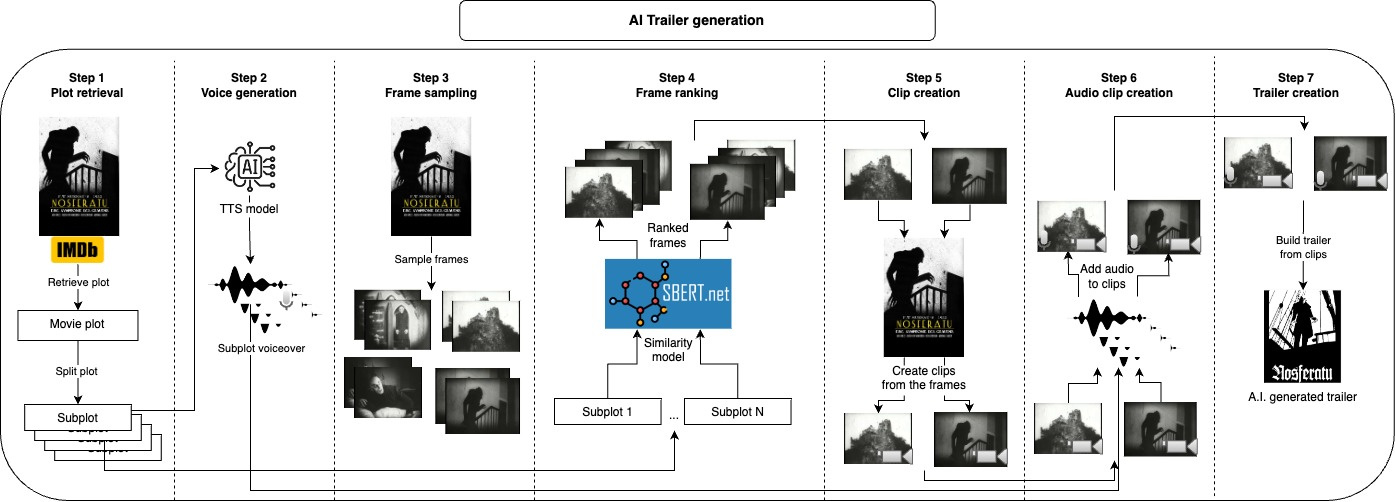
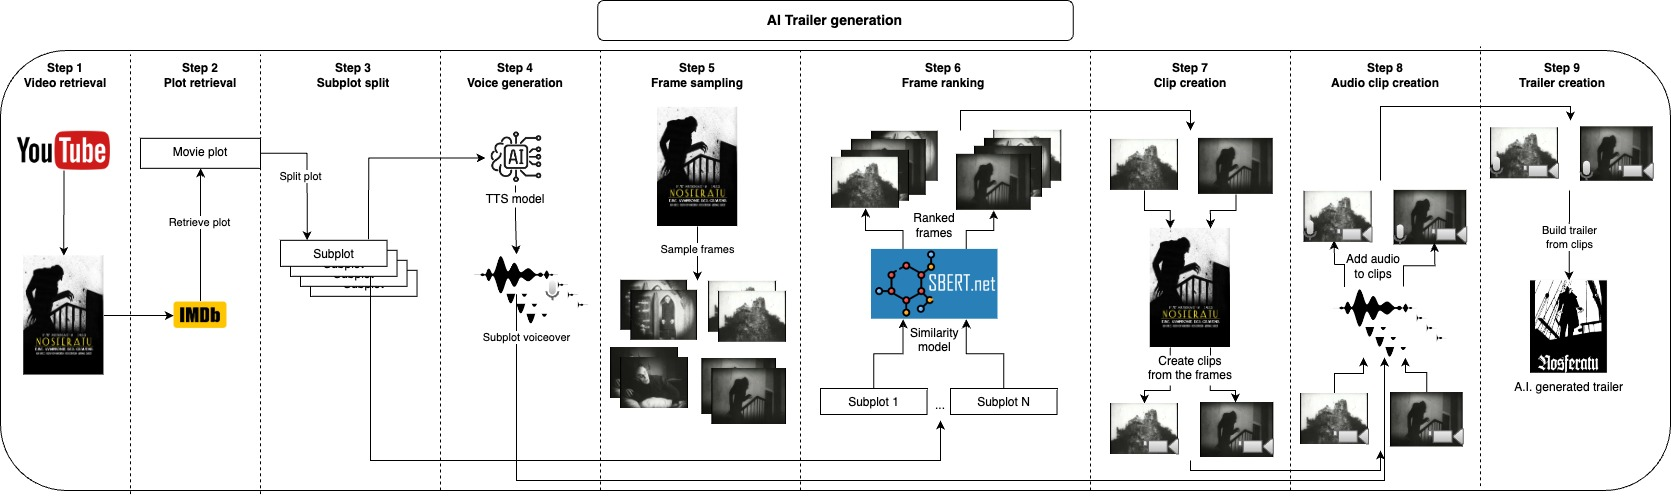
Adding support for any video trailer

diff --git a/src/video_retrieval.py b/src/video_retrieval.py
@@ -3,7 +3,7 @@ from pathlib import Path
 
 from pytube import YouTube
 
-from common import configs
+from common import PROJECT_DIR, configs
 
 
 def get_video(video_url: str, video_path: Path) -> None:
@@ -25,4 +25,11 @@ logger = logging.getLogger(__file__)
 logger.info("\n##### Starting optional step video retrieval #####\n")
 
 video_path = Path(configs["video_path"])
+
+if not video_path.exists():
+    video_path.parent.mkdir(parents=True, exist_ok=True)
+
+if not PROJECT_DIR.exists():
+    PROJECT_DIR.mkdir(parents=True, exist_ok=True)
+
 get_video(configs["video_retrieval"]["video_url"], video_path)

diff --git a/README.md b/README.md
@@ -24,6 +24,12 @@ All of those steps will generate intermediate files that you can inspect and man
 ### Nosferatu (1922)
 [![Watch the video](https://i.ytimg.com/vi/bfUdjzndOyI/hqdefault.jpg)](https://youtu.be/bfUdjzndOyI)
 
+### The Fermi Paradox — Where Are All The Aliens?
+[![Watch the video](https://i.ytimg.com/vi/Ay0mKR6_WBE/maxresdefault.jpg)](https://youtu.be/Ay0mKR6_WBE)
+
+### Natural History Museum (New Dinosaur Exhibit) Walking Tour in 4K -- Washington, D.C.
+[![Watch the video](https://i.ytimg.com/vi/vQk5vEl2PXY/maxresdefault.jpg)](https://youtu.be/vQk5vEl2PXY)
+
 # Changelog
 - 2024/03/03 - Added support to create trailers for any video not only movies.
 - 2024/03/07 - Added support to download videos from YouTube.
@@ -40,8 +46,8 @@ Any movie's URL at IMDB will look like this "https://www.imdb.com/title/tt006335
 ## Application workflow
 1. **Video retrieval (optional):** Download the video from YouTube
 2. **Plot retrieval (optional):** Get the video's plot from IMDB
-3. **Subplots:** Split the plot into subplots
-4. **Voice:** Generate a voice for each subplot
+3. **Subplot split:** Split the plot into subplots
+4. **Voice generation:** Generate a voice for each subplot
 5. **Frame sampling:** Sample multiple frames from the video
 6. **Frame ranking:** Select the frames most similar to each subplot
 7. **Clip:** Create a video clip for each of the frames selected
@@ -51,11 +57,11 @@ Any movie's URL at IMDB will look like this "https://www.imdb.com/title/tt006335
 ## Configs
 ```
 project_dir: 'projects'
-project_name: American_Museum_of_Natural_History
-video_path: 'movies/American_Museum_of_Natural_History.mp4'
+project_name: Natural_History_Museum
+video_path: 'movies/Natural_History_Museum.mp4'
 plot_filename: 'plot.txt'
 video_retrieval:
-  video_url: 'https://www.youtube.com/watch?v=UxJJiO6zNSo'
+  video_url: 'https://www.youtube.com/watch?v=fdcEKPS6tOQ'
 plot_retrieval:
   video_id: 
 subplot:
@@ -67,16 +73,16 @@ voice:
   tts_language: en
   n_audios: 1
 frame_sampling:
-  n_frames: 1000
+  n_frames: 500
 frame_ranking:
   model_id: 'clip-ViT-B-32'
   device: cpu
   n_retrieved_images: 1
   similarity_batch_size: 128
 clip:
-  min_clip_len: 5
+  min_clip_len: 3
 audio_clip:
-  clip_volume: 0.5
+  clip_volume: 0.1
   voice_volume: 1.0
 ```
 
@@ -115,17 +121,22 @@ Build the Docker image
 make build
 ```
 
-Run the whole pipeline to create the trailer, retrieving the plot from IMDB
+Run the whole pipeline to create the trailer starting from a video and a plot
+```bash
+make trailer
+```
+
+Run the whole pipeline to create the trailer starting from a video and retrieving the plot from IMDB
 ```bash
 make trailer_imdb
 ```
 
-Run the whole pipeline to create the trailer, downloading the video from YouTube
+Run the whole pipeline to create the trailer starting from a plot and downloading the video from YouTube
 ```bash
 make trailer_youtube
 ```
 
-Run the whole pipeline to create the trailer, downloading the video from YouTube and retrieving the plot from IMDB
+Run the whole pipeline to create the trailer downloading the video from YouTube and retrieving the plot from IMDB
 ```bash
 make trailer_imdb_youtube
 ```
